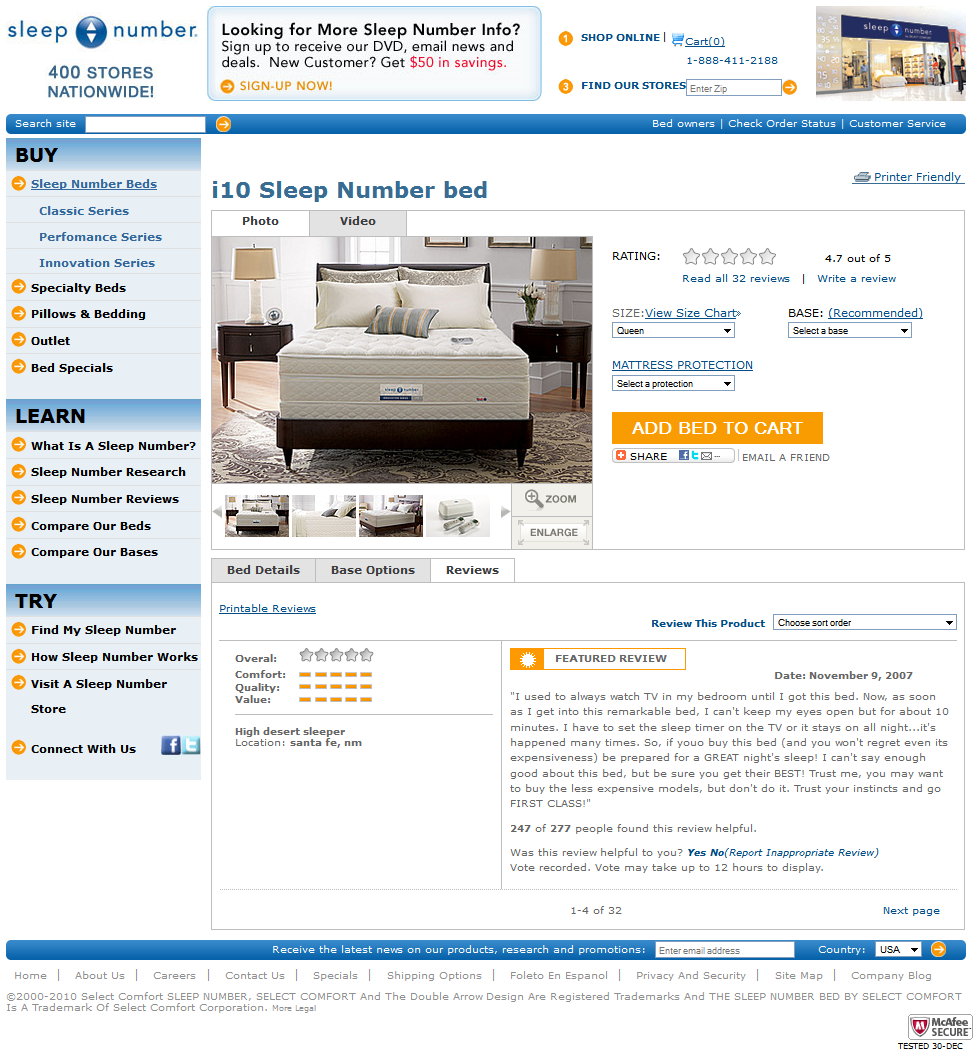
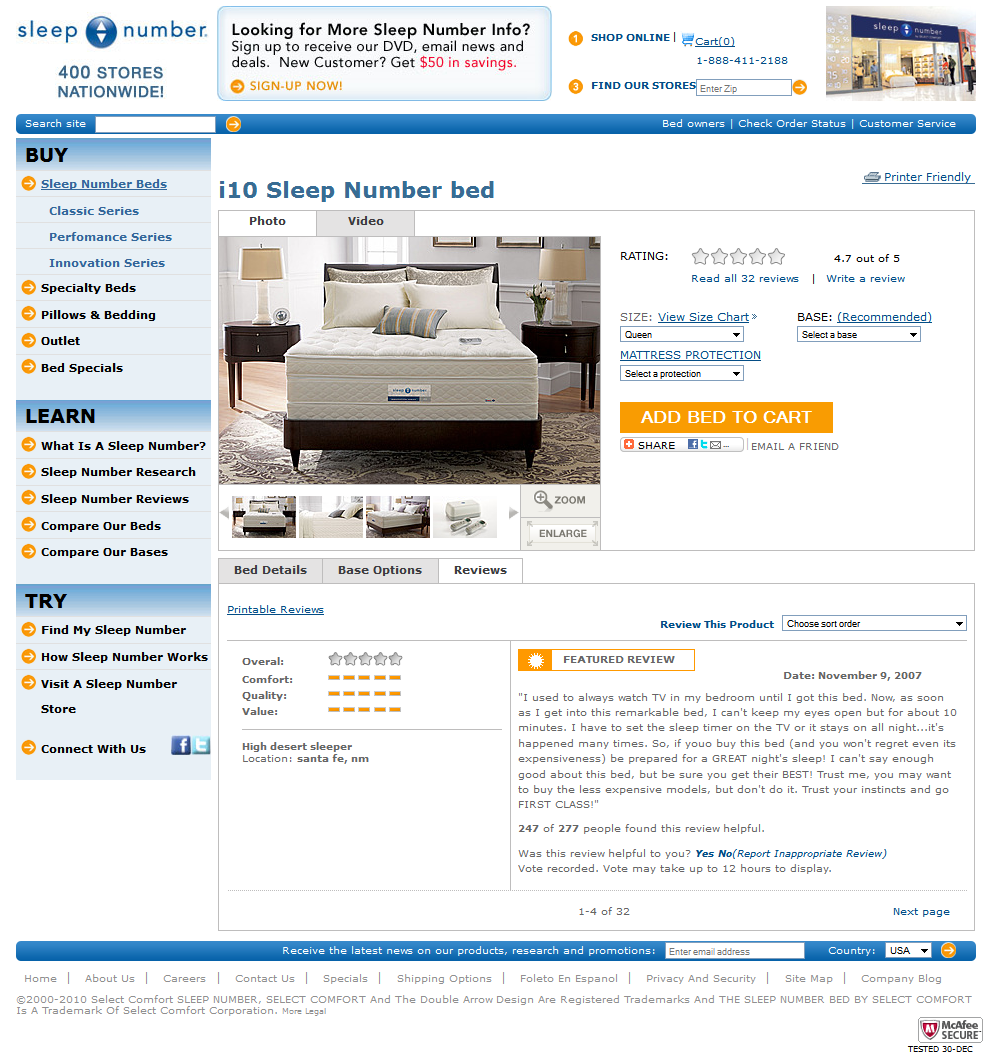
changes again

diff --git a/index.html b/index.html
@@ -38,7 +38,7 @@
         </div>
         <div class="row pt0-25em">
             <!-- <div class="column w20"> -->
-                <div class="column w20-4 left_menu sprites h100">
+                <div class="column w20-4 left_menu sprites megaAfterRow">
                     <h4 class="upper_case blue_menu_stripe pl05em">Buy</h4>
                     <ul>
                         <li>
@@ -124,8 +124,8 @@
                                     </div>
                                 </div>
                            </div>
-                            <div class="row pt8">
-                                <div class="column w50 ">
+                            <div class="row">
+                                <div class="column w50 pt6">
                                     <div class="row sprites">
                                         <div class="column noSprite upper_case color666 fs0-7em">size:</div><a href="google.com" class="column color_blue capital fs0-7em dec pr2 pl2-5">View size chart</a> 
                                         <span class="column forSprite dbl mt2 pl1 sprite-double_stripe"></span>
@@ -135,11 +135,8 @@
                                             <option value="2">Big</option>
                                             <option value="3">Standart</option>
                                     </select>
-                                    
-                                    
-                                   
                                 </div>
-                                <div class="column w50">
+                                <div class="column w50 pt6">
                                     <div class="column w100 upper_case fs0-7em">Base: <a href="google.com" class="color_blue capital fs0-95em dec">(Recommended)</a></div>
                                     <select class="column w70 mt2">
                                             <option value="" disabled selected="">Select a base</option>
@@ -148,7 +145,7 @@
                                             <option value="">Standart</option>
                                     </select>
                                 </div>
-                                <div class="column w50">
+                                <div class="column w50 pt6">
                                     <div class="column w100 mt2"><a href="google.com" class="color_blue upper_case fs0-7em dec">Mattress protection</a></div>
                                     <select class="column w70 mt2">
                                             <option value="" disabled selected="">Select a protection</option>
@@ -192,83 +189,85 @@
                         <li class="padSmaller bordTop bordRight column active"><a href="google.com" class="fntBold fs0-7em color_dark_grey capital lh1-9em">reviews</a></li>
                     </ul>
                 </div>
-                <div class="column padrl1 bord">
-                <div class="row pt2"><div class="column w20"><a class="color_blue fs0-6em dec capital" href="google.com">printable reviews</a></div></div>
-                <div class="row bordBot pb1">
-                    <select class="column fr w25 ml1">
-                        <option value="" disabled selected="">Choose sort order</option>
-                        <option value="1">Low price</option>
-                        <option value="2">Highg price</option>
-                        <option value="3">A-Z</option>
-                        <option value="4">Z-A</option>
-                    </select>
-                    <div class="column fr color_blue fs0-6em capital fntBold lh1-9em">review this product 
-                    </div> 
-                </div>
-                <div class="row padrl1 bordBotDot">
-                    <div class="column w38 padBoth h100">
-                        <div class="row bordBot ptl3">
-                            <div class="row lh0-8em">
-                                <div class="column w25 color666 fs0-6em fntBold">Overal: </div>
-                                <div class="column w40 sprites">
-                                    <div class="column sprite-star_0_per_cent"></div>
-                                    <div class="column sprite-star_0_per_cent"></div>
-                                    <div class="column sprite-star_0_per_cent"></div>
-                                    <div class="column sprite-star_0_per_cent"></div>
-                                    <div class="column sprite-star_0_per_cent"></div>
+                <div class="row bigAfterRow">
+                    <div class="column padrl1 bord">
+                    <div class="row pt2"><div class="column w20"><a class="color_blue fs0-6em dec capital" href="google.com">printable reviews</a></div></div>
+                    <div class="row bordBot pb1">
+                        <select class="column fr w25 ml1">
+                            <option value="" disabled selected="">Choose sort order</option>
+                            <option value="1">Low price</option>
+                            <option value="2">Highg price</option>
+                            <option value="3">A-Z</option>
+                            <option value="4">Z-A</option>
+                        </select>
+                        <div class="column fr color_blue fs0-6em capital fntBold lh1-9em">review this product 
+                        </div> 
+                    </div>
+                    <div class="row padrl1 bordBotDot">
+                        <div class="column w38 padBoth h100">
+                            <div class="row bordBot ptl3">
+                                <div class="row lh0-8em">
+                                    <div class="column w25 color666 fs0-6em fntBold">Overal: </div>
+                                    <div class="column w50 sprites pl8">
+                                        <div class="column sprite-star_0_per_cent"></div>
+                                        <div class="column sprite-star_0_per_cent"></div>
+                                        <div class="column sprite-star_0_per_cent"></div>
+                                        <div class="column sprite-star_0_per_cent"></div>
+                                        <div class="column sprite-star_0_per_cent"></div>
+                                    </div>
+                                </div>
+                                <div class="row lh1em">
+                                    <div class="column w25 color666 fs0-6em fntBold">Comfort: </div>
+                                    <div class="column w50 sprites pl8">
+                                        <div class="column sprite-square_icon mr3 mt4"></div>
+                                        <div class="column sprite-square_icon mr3 mt4"></div>
+                                        <div class="column sprite-square_icon mr3 mt4"></div>
+                                        <div class="column sprite-square_icon mr3 mt4"></div>
+                                        <div class="column sprite-square_icon mr3 mt4"></div>
+                                    </div>
+                                </div>
+                                <div class="row lh1em">
+                                    <div class="column w25 color666 fs0-6em fntBold">Quality: </div>
+                                    <div class="column w50 sprites pl8">
+                                        <div class="column sprite-square_icon mr3 mt4"></div>
+                                        <div class="column sprite-square_icon mr3 mt4"></div>
+                                        <div class="column sprite-square_icon mr3 mt4"></div>
+                                        <div class="column sprite-square_icon mr3 mt4"></div>
+                                        <div class="column sprite-square_icon mr3 mt4"></div>
+                                    </div>
+                                </div>
+                                <div class="row lh1em">
+                                    <div class="column w25 color666 fs0-6em fntBold">Value: </div>
+                                    <div class="column w50 sprites pl8">
+                                        <div class="column sprite-square_icon mr3 mt4"></div>
+                                        <div class="column sprite-square_icon mr3 mt4"></div>
+                                        <div class="column sprite-square_icon mr3 mt4"></div>
+                                        <div class="column sprite-square_icon mr3 mt4"></div>
+                                        <div class="column sprite-square_icon mr3 mt4"></div>
+                                    </div>
                                 </div>
                             </div>
-                            <div class="row lh0-6em">
-                                <div class="column w25 color666 fs0-6em fntBold">Comfort: </div>
-                                <div class="column w40 sprites">
-                                    <div class="column sprite-square_icon mr3 mt4"></div>
-                                    <div class="column sprite-square_icon mr3 mt4"></div>
-                                    <div class="column sprite-square_icon mr3 mt4"></div>
-                                    <div class="column sprite-square_icon mr3 mt4"></div>
-                                    <div class="column sprite-square_icon mr3 mt4"></div>
-                                </div>
-                            </div>
-                            <div class="row lh0-6em">
-                                <div class="column w25 color666 fs0-6em fntBold">Quality: </div>
-                                <div class="column w40 sprites">
-                                    <div class="column sprite-square_icon mr3 mt4"></div>
-                                    <div class="column sprite-square_icon mr3 mt4"></div>
-                                    <div class="column sprite-square_icon mr3 mt4"></div>
-                                    <div class="column sprite-square_icon mr3 mt4"></div>
-                                    <div class="column sprite-square_icon mr3 mt4"></div>
-                                </div>
-                            </div>
-                            <div class="row lh0-6em">
-                                <div class="column w25 color666 fs0-6em fntBold">Value: </div>
-                                <div class="column w40 sprites">
-                                    <div class="column sprite-square_icon mr3 mt4"></div>
-                                    <div class="column sprite-square_icon mr3 mt4"></div>
-                                    <div class="column sprite-square_icon mr3 mt4"></div>
-                                    <div class="column sprite-square_icon mr3 mt4"></div>
-                                    <div class="column sprite-square_icon mr3 mt4"></div>
-                                </div>
+                            <div class="row pt4">
+                                <div class="column w100 color666 fs0-6em fntBold lh0-8em">High desert sleeper</div>
+                                <div class="column w100 color666 fs0-6em lh0-8em">Location: <span class="fntBold">santa fe, nm</span></div>
                             </div>
                         </div>
-                        <div class="row pt4">
-                            <div class="column w100 color666 fs0-6em fntBold lh0-8em">High desert sleeper</div>
-                            <div class="column w100 color666 fs0-6em lh0-8em">Location: <span class="fntBold">santa fe, nm</span></div>
+                        <div class="bordLeft column w62 sprites pl1 ptb1--2">
+                            <div class="row"><div class="column w40 bordOrange upper_case fs0-6em fntBold sprite-sun_icon pl10 color666 lh1-9em">featured review</div></div>
+                            <div class="row noSprite color666"><div class="column fntBold fs0-6em noSprite w40 fr">Date: November 9, 2007</div></div>
+                            <div class="row noSprite color666 fs0-6em">
+                                <p class="mt2 lh1-6em">"I used to always watch TV in my bedroom until I got this bed. Now, as soon as I get into this remarkable bed, I can't keep my eyes open but for about 10 minutes. I have to set the sleep timer on the TV or it stays on all night...it's happened many times. So, if youo buy this bed (and you won't regret even its expensiveness) be prepared for a GREAT night's sleep! I can't say enough good about this bed, but be sure you get their BEST! Trust me, you may want to buy the less expensive models, but don't do it. Trust your instincts and go FIRST CLASS!"</p>
+                                <p class="mt2 lh1-6em "><span class="fntBold">247</span> of <span class="fntBold">277</span> people found this review helpful.</p>
+                                <p class="mt2 lh1-6em ">Was this review helpful to you? <a href="google.com" class="color_blue ital fntBold">Yes</a> <a href="google.com" class="ital color_blue fntBold">No</a><span class="ital color_blue">(Report Inappropriate Review)</span></p>
+                                <p class="lh1-6em">Vote recorded. Vote may take up to 12 hours to display.</p>
+                            </div>
                         </div>
                     </div>
-                    <div class="bordLeft column w62 sprites pl1 ptb1--2">
-                        <div class="row"><div class="column w40 bordOrange upper_case fs0-6em fntBold sprite-sun_icon pl10 color666 lh1-9em">featured review</div></div>
-                        <div class="row noSprite color666"><div class="column fntBold fs0-6em noSprite w40 fr">Date: November 9, 2007</div></div>
-                        <div class="row noSprite color666 fs0-6em">
-                            <p class="mt2 lh1-6em">"I used to always watch TV in my bedroom until I got this bed. Now, as soon as I get into this remarkable bed, I can't keep my eyes open but for about 10 minutes. I have to set the sleep timer on the TV or it stays on all night...it's happened many times. So, if youo buy this bed (and you won't regret even its expensiveness) be prepared for a GREAT night's sleep! I can't say enough good about this bed, but be sure you get their BEST! Trust me, you may want to buy the less expensive models, but don't do it. Trust your instincts and go FIRST CLASS!"</p>
-                            <p class="mt2 lh1-6em "><span class="fntBold">247</span> of <span class="fntBold">277</span> people found this review helpful.</p>
-                            <p class="mt2 lh1-6em ">Was this review helpful to you? <a href="google.com" class="color_blue ital fntBold">Yes</a> <a href="google.com" class="ital color_blue fntBold">No</a><span class="ital color_blue">(Report Inappropriate Review)</span></p>
-                            <p class="lh1-6em">Vote recorded. Vote may take up to 12 hours to display.</p>
+                    <div class="row ptb22">
+                        <div class="column w100">
+                            <span class="color666 w90 fs0-6em tac column pl12">1-4 of 32</span>
+                            <span class="column w10 fs0-6em color_blue fr">Next page</span>
                         </div>
-                    </div>
-                </div>
-                <div class="row ptb22">
-                    <div class="column w100">
-                        <span class="color666 w90 fs0-6em tac column pl12">1-4 of 32</span>
-                        <span class="column w10 fs0-6em color_blue fr">Next page</span>
                     </div>
                 </div>
             </div>

diff --git a/style/style.css b/style/style.css
@@ -135,6 +135,20 @@ li.bord_none{
     margin-bottom: 1.74em;
     visibility: hidden;
 }
+.bigAfterRow:after{
+	content: ".";
+    display: block;
+    height: 0;
+    margin-bottom: 4em;
+    visibility: hidden;
+}
+.megaAfterRow:after{
+	content: ".";
+    display: block;
+    height: 0;
+    margin-bottom: 14em;
+    visibility: hidden;
+}
 .wrapper{
 	/*margin: 0 auto;*/
 	min-height: 100%;
@@ -326,7 +340,8 @@ li.bord_none{
 	padding-bottom: 1%;
 }
 .ptl3{
-	padding: 3% 0;
+	padding-top: 4%;
+	padding-bottom: 4%;
 }
 .pl05em{
 	padding: 0 0 0 0.5em;
@@ -464,8 +479,8 @@ li.bord_none{
 .lh0-8em{
 	line-height: 1.2em;
 }
-.lh0-6em{
-	line-height: 0.8em;
+.lh1em{
+	line-height: 1em;
 }
 .tac{
 	text-align: center;
